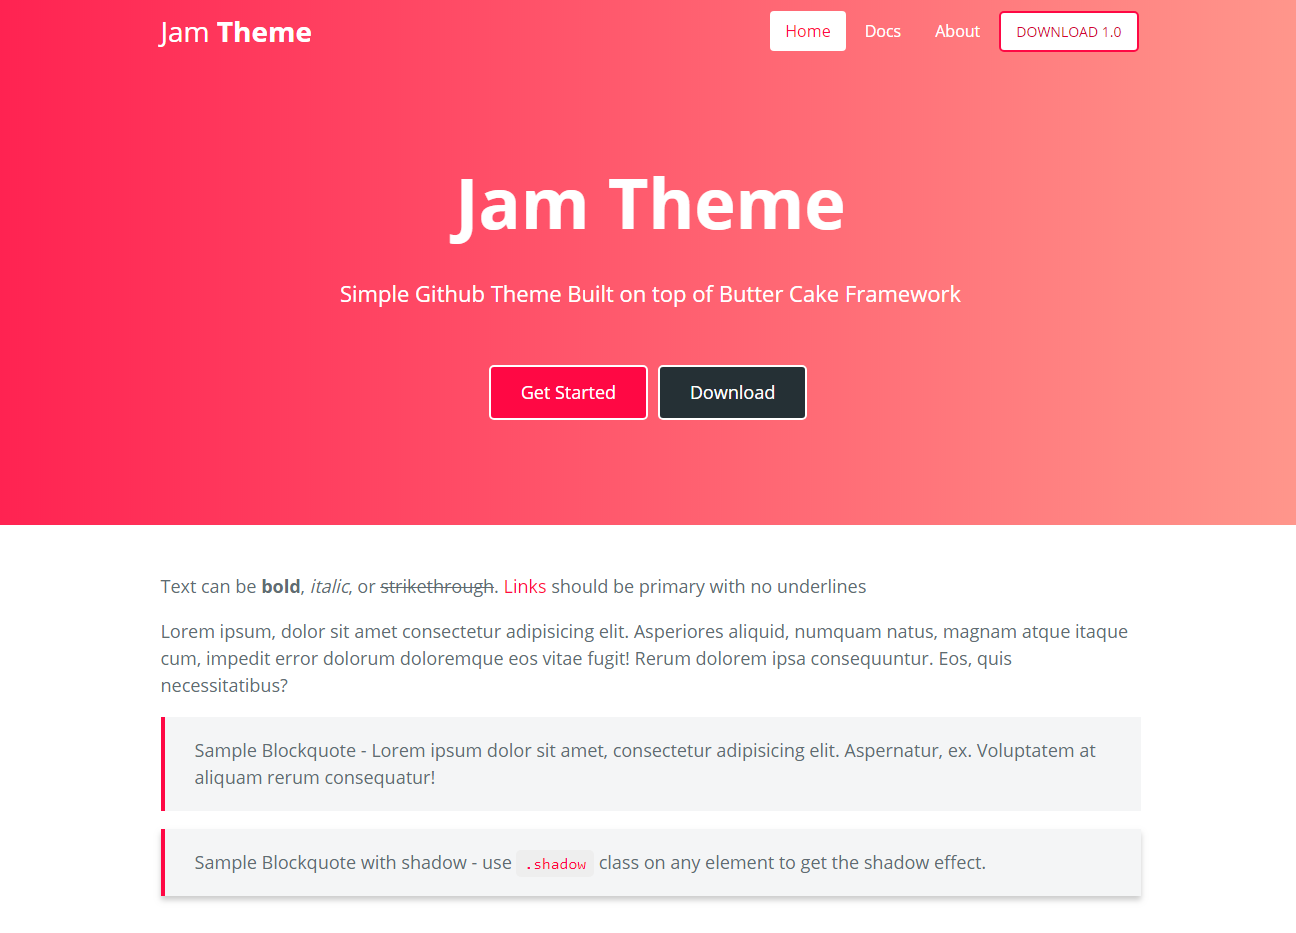
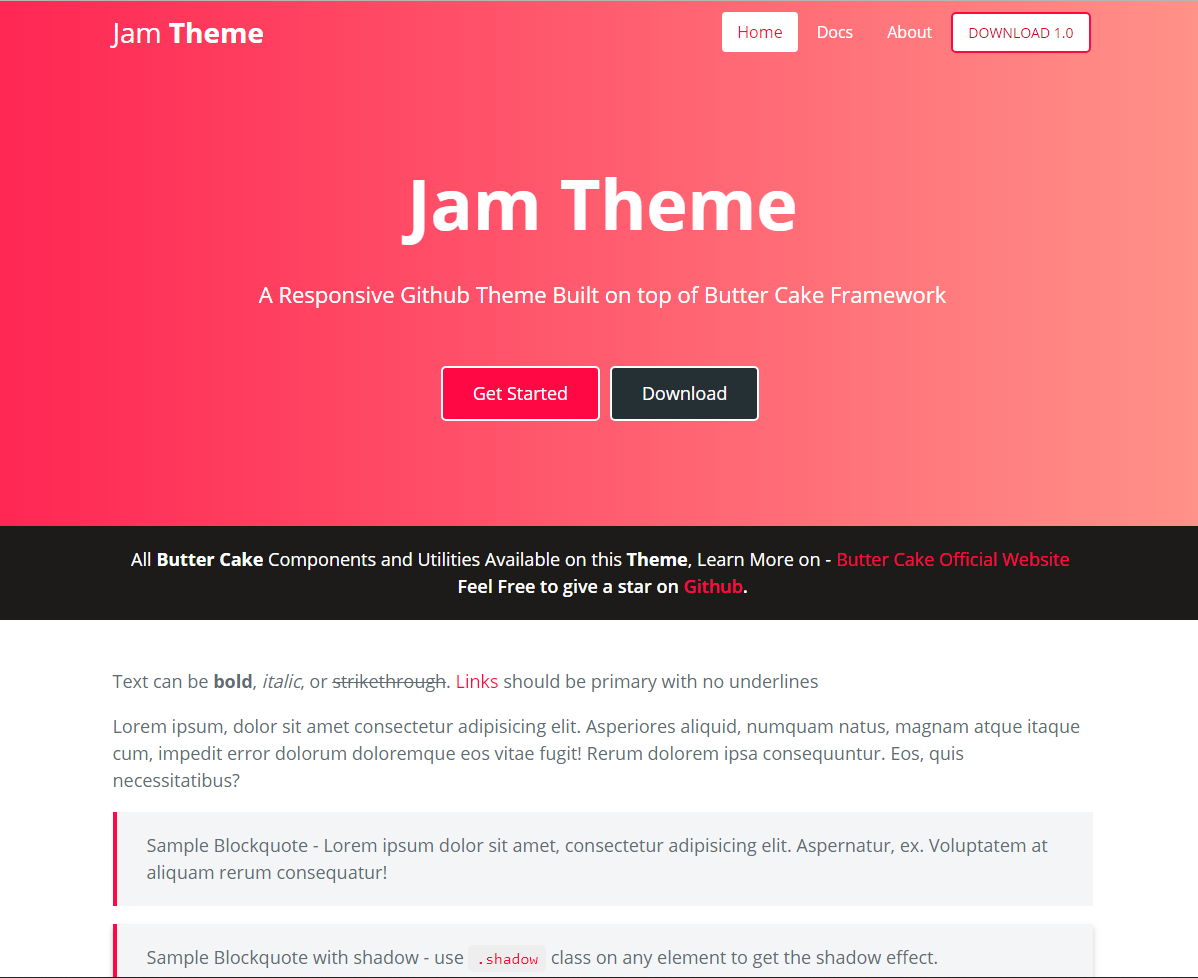
Initial Release

diff --git a/README.md b/README.md
@@ -1,7 +1,7 @@
 # Jam Theme
 A responsive theme for GitHub Pages and Documentations.
 
-Jam is a clean, responsive theme for [GitHub Pages](https://pages.github.com). This theme is available as an option if you use the [Automatic Page Generator](https://help.github.com/articles/creating-pages-with-the-automatic-generator/) or you can copy the template and styles to use on your own.
+Jam is a clean, responsive theme for [GitHub Pages](https://pages.github.com), Built on top of Butter Cake Framework. You can download the template and styles to use on your own.
 
 You can preview the theme at http://himasrafeek.github.io/jam-theme.
 
